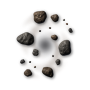
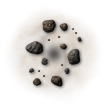
Debris disks carry their own dust cloud
Every debris disk now sits in a cloud of brown dust drawn into its own
image, past the hex so neighbouring disks' clouds run together, on any
background. The maps no longer need dust under their disks.

Claude-Session: https://claude.ai/code/session_011CPGRtUXnfL3wLLS3uLQ8y

Changed region(s): [[0.1556, 0.1111, 0.8667, 0.8889], [0.7333, 0.2444, 0.7556, 0.2889]]

diff --git a/tools/make_asteroids.py b/tools/make_asteroids.py
@@ -264,7 +264,26 @@ def swirl_rocks(rng, spin, arms, twist):
     return placed
 
 
-def debris_disk(rng, pad, spin):
+def dust_haze(rng, d, W):
+    """A cloud of brown dust behind a debris disk, in the dust clouds'
+    colours, thinning out just past the hex so neighbouring disks' clouds
+    run together."""
+    n1, n2, f2 = (np.asarray(Image.fromarray((value_noise(rng, W // S, o, b) * 255).astype(np.uint8))
+                             .resize((W, W), Image.BICUBIC), np.float32) / 255
+                  for o, b in ((5, 3), (4, 4), (4, 6)))
+    streak = (1 - np.abs(2 * n1 - 1)) ** 3
+    fine = (1 - np.abs(2 * f2 - 1)) ** 16
+    col_a, col_b, col_hi = (np.array(c, np.float32) for c in ((150, 115, 75), (115, 90, 65), (200, 165, 115)))
+    mix = (0.5 + 0.5 * (n2 - 0.5))[..., None]
+    rgb = col_a * (1 - mix) + col_b * mix
+    rgb = rgb * (0.75 + 0.5 * (n1 - 0.5) + 0.35 * streak)[..., None]
+    rgb = rgb * (1 - 0.5 * fine[..., None]) + col_hi * 0.5 * fine[..., None]
+    edge = np.clip((50 - d - 10 * (n2 - 0.5)) / 24, 0, 1)
+    alpha = np.clip(0.3 + 0.12 * (n1 - 0.5) + 0.3 * streak + 0.2 * fine, 0, 0.85) * 0.45 * edge * edge * (3 - 2 * edge)
+    return Image.fromarray(np.dstack([rgb, alpha * 255]).clip(0, 255).astype(np.uint8), "RGBA")
+
+
+def debris_disk(rng, pad, spin, haze_rng=None):
     """One debris disk hex: an empty dark middle, faint dust streaming
     round it in a spiral, and loose rocks of every size swept
     along the same spiral, each trailing a little dust."""
@@ -284,6 +303,9 @@ def debris_disk(rng, pad, spin):
     dust = lanes ** 3 * (0.45 + 0.55 * grain) * fade * 0.42
     dust_rgb = np.dstack([np.full_like(d, 120), np.full_like(d, 104), np.full_like(d, 92)])
     canvas = Image.fromarray(np.dstack([dust_rgb, dust * 255]).clip(0, 255).astype(np.uint8), "RGBA")
+    if haze_rng is not None:
+        canvas = dust_haze(haze_rng, d, W)
+        canvas.alpha_composite(Image.fromarray(np.dstack([dust_rgb, dust * 255]).clip(0, 255).astype(np.uint8), "RGBA"))
     # each rock trails a short streak of dust behind it along its orbit
     trails = Image.new("L", (W, W), 0)
     dt = ImageDraw.Draw(trails)
@@ -356,12 +378,16 @@ def build(rng, out, save, combos, hex_mask):
         compose(rng, wall_rocks(rng), wpad, darken=0.82, kinds=WALL_KINDS, shadow=0.6, fill=True)
     # Debris disks: loose rocks swirling round an empty middle, with
     # their own seed; half spin one way, half the other.
+    # Each sits in a cloud of dust (its own seed too), drawn past the hex
+    # so the clouds of neighbouring disks run together.
     drng = np.random.default_rng(rng.bit_generator.seed_seq.entropy + 1)
+    hrng = np.random.default_rng(rng.bit_generator.seed_seq.entropy + 2)
+    dpad = 18
     for v in range(8):
-        canvas = debris_disk(drng, wpad, 1 if v % 2 == 0 else -1)
+        canvas = debris_disk(drng, dpad, 1 if v % 2 == 0 else -1, hrng)
         put(canvas, "asteroid-wall" if v == 0 else f"asteroid-wall{v + 1}")
         if v == 0:
-            put(tile_icon(canvas, wpad), "asteroid-wall-tile")
+            put(tile_icon(canvas, dpad), "asteroid-wall-tile")
 
     # Spill: per edge, a fixed set of loose rocks; each combo image is the
     # union of its edges' sets, so neighbouring rule matches agree.

diff --git a/tools/make_manufacturing_consent.py b/tools/make_manufacturing_consent.py
@@ -39,14 +39,14 @@ T = {".": "Ys", "n": "Yn", "a": "Ys^Ya", "w": "Ys^Yw", "p": "Ys^Vyp",
      "s": "Yis", "m": "Yr",
      # barriers that replace most of the asteroid walls (see BARRIERS)
      "D": "Yqd", "R": "Yqr", "P": "Yqp", "E": "Yqe", "G": "Yqd^Ygg",
-     "H": "Yqr^Ygc", "X": "Yqe^Yxb", "U": "Yqr^Yxp", "S": "Ys^Yx", "M": "Ys^Ysg", "q": "Yd^Yw",
+     "H": "Yqr^Ygc", "X": "Yqe^Yxb", "U": "Yqr^Yxp", "S": "Ys^Yx", "M": "Ys^Ysg",
      "o": "Ys^Yxd1", "y": "Yd^Yxd5",
      "O": "Yqe^Ybh", "T": "Yqp^Yx", "V": "Yqp^Yxp",
      **{str(n): f"Yqe^Ybh{n}" for n in range(1, 7)}}
 WESNOTH = {".": "Gg", "n": "Gs^Fp", "a": "Hh", "w": "Md^Xm", "p": "Gg^Vh",
            "K": "Kh", "c": "Ch", "r": "Re", "B": "Wo", "f": "Wo^Bsb\\",
            "s": "Ss", "m": "Gg^Tf"}
-WESNOTH.update({ch: "Md^Xm" for ch in "DRPEGHXUSOTVMqoy123456"})
+WESNOTH.update({ch: "Md^Xm" for ch in "DRPEGHXUSOTVMoy123456"})
 LEAFY = "Gg^Fds"                 # every third wood hex is deciduous
 
 # The dark stars: each diamond of "G" (gas giant in dark nebula) becomes one
@@ -187,22 +187,6 @@ def neighbours(x, y):
     up = y - 1 if x % 2 == 0 else y        # odd columns sit half a hex lower
     return [(x, y - 1), (x, y + 1), (x - 1, up), (x - 1, up + 1),
             (x + 1, up), (x + 1, up + 1)]
-
-
-def dusty_disks(grid, stars="Moy"):
-    """Debris disk hexes round a rocky supergiant sit on dust, so the star
-    shows through a haze of dust behind its rocks."""
-    H, W = len(grid), len(grid[0])
-    near = [(x, y) for y in range(H) for x in range(W) if grid[y][x] == "w"
-            and any(0 <= u < W and 0 <= v < H and grid[v][u] in stars for u, v in neighbours(x, y))]
-    for x, y in near:
-        grid[y][x] = "q"
-    # and the disk hexes that close the ring between two of those
-    gaps = [(x, y) for y in range(H) for x in range(W) if grid[y][x] == "w"
-            and sum(0 <= u < W and 0 <= v < H and grid[v][u] == "q" for u, v in neighbours(x, y)) >= 2]
-    for x, y in gaps:
-        grid[y][x] = "q"
-    return grid
 
 
 def build():
@@ -496,7 +480,7 @@ def write(grid, keeps, path, table=T, base_only=("Yk", "Ys^Vyp")):
 
 if __name__ == "__main__":
     grid, keeps = pad_top(*build())
-    grid = dusty_disks(number_dark_stars(hand_edits(asteroid_skirts(centrepieces(barriers(grid))))))
+    grid = number_dark_stars(hand_edits(asteroid_skirts(centrepieces(barriers(grid)))))
     write(grid, keeps,
           os.path.join(sys.argv[1], "maps/4p_Manufacturing_Consent.map"))
     write(grid, keeps, os.path.join(

diff --git a/tools/make_understanding_power.py b/tools/make_understanding_power.py
@@ -38,10 +38,10 @@ LEAFY = "Gg^Fds"                 # every third wood hex is deciduous
 # In the south half the same ridge circles a blue giant instead.
 T.update({"D": "Yqd", "S": "Yqd^Yx", "R": "Yqr", "U": "Yqr^Yxp",
           "P": "Yqp", "T": "Yqp^Yxs1", "E": "Yqe", "X": "Yqe^Yxb2",
-          "M": "Ys^Ysg", "J": "Ys^Ysb", "q": "Yd^Yw",
+          "M": "Ys^Ysg", "J": "Ys^Ysb",
           "V": "Yn^Yxs4", "W": "Yn^Yx",
           "A": "Ys^Yxd1", "Z": "Ys^Yxd2", "F": "Ys^Yxd3", "G": "Ys^Yxd4"})
-WESNOTH.update({ch: "Md^Xm" for ch in "DSRUPTEXMJAZFGVWq"})
+WESNOTH.update({ch: "Md^Xm" for ch in "DSRUPTEXMJAZFGVW"})
 SOUTH = {"M": "J", "A": "G", "Z": "F", "V": "W"}     # the south half's own stars
 # Hexes opened up since, in the north half like BARRIERS (the south half
 # follows): bits of the west cliffs, the spiral, the long ridge's east end
@@ -161,22 +161,6 @@ def shallows(grid):
     return grid
 
 
-def dusty_disks(grid, stars="MJ"):
-    """Debris disk hexes round a rocky supergiant sit on dust, so the star
-    shows through a haze of dust behind its rocks."""
-    H, W = len(grid), len(grid[0])
-    near = [(x, y) for y in range(H) for x in range(W) if grid[y][x] == "w"
-            and any(0 <= u < W and 0 <= v < H and grid[v][u] in stars for u, v in neighbours(x, y))]
-    for x, y in near:
-        grid[y][x] = "q"
-    # and the disk hexes that close the ring between two of those
-    gaps = [(x, y) for y in range(H) for x in range(W) if grid[y][x] == "w"
-            and sum(0 <= u < W and 0 <= v < H and grid[v][u] == "q" for u, v in neighbours(x, y)) >= 2]
-    for x, y in gaps:
-        grid[y][x] = "q"
-    return grid
-
-
 def build():
     grid = [["." for _ in range(W)] for _ in range(H)]
     for ch, hexes in FEATURES.items():
@@ -193,7 +177,7 @@ def build():
         for x in range(W):
             grid[y][x] = grid[H - 1 - y][W - 1 - x]
             grid[y][x] = SOUTH.get(grid[y][x], grid[y][x])   # its own stars
-    return dusty_disks(shallows(grid))
+    return shallows(grid)
 
 
 def write(grid, path, table=T, base_only=("Yk", "Ys^Vyp"), start=(5, 3)):
